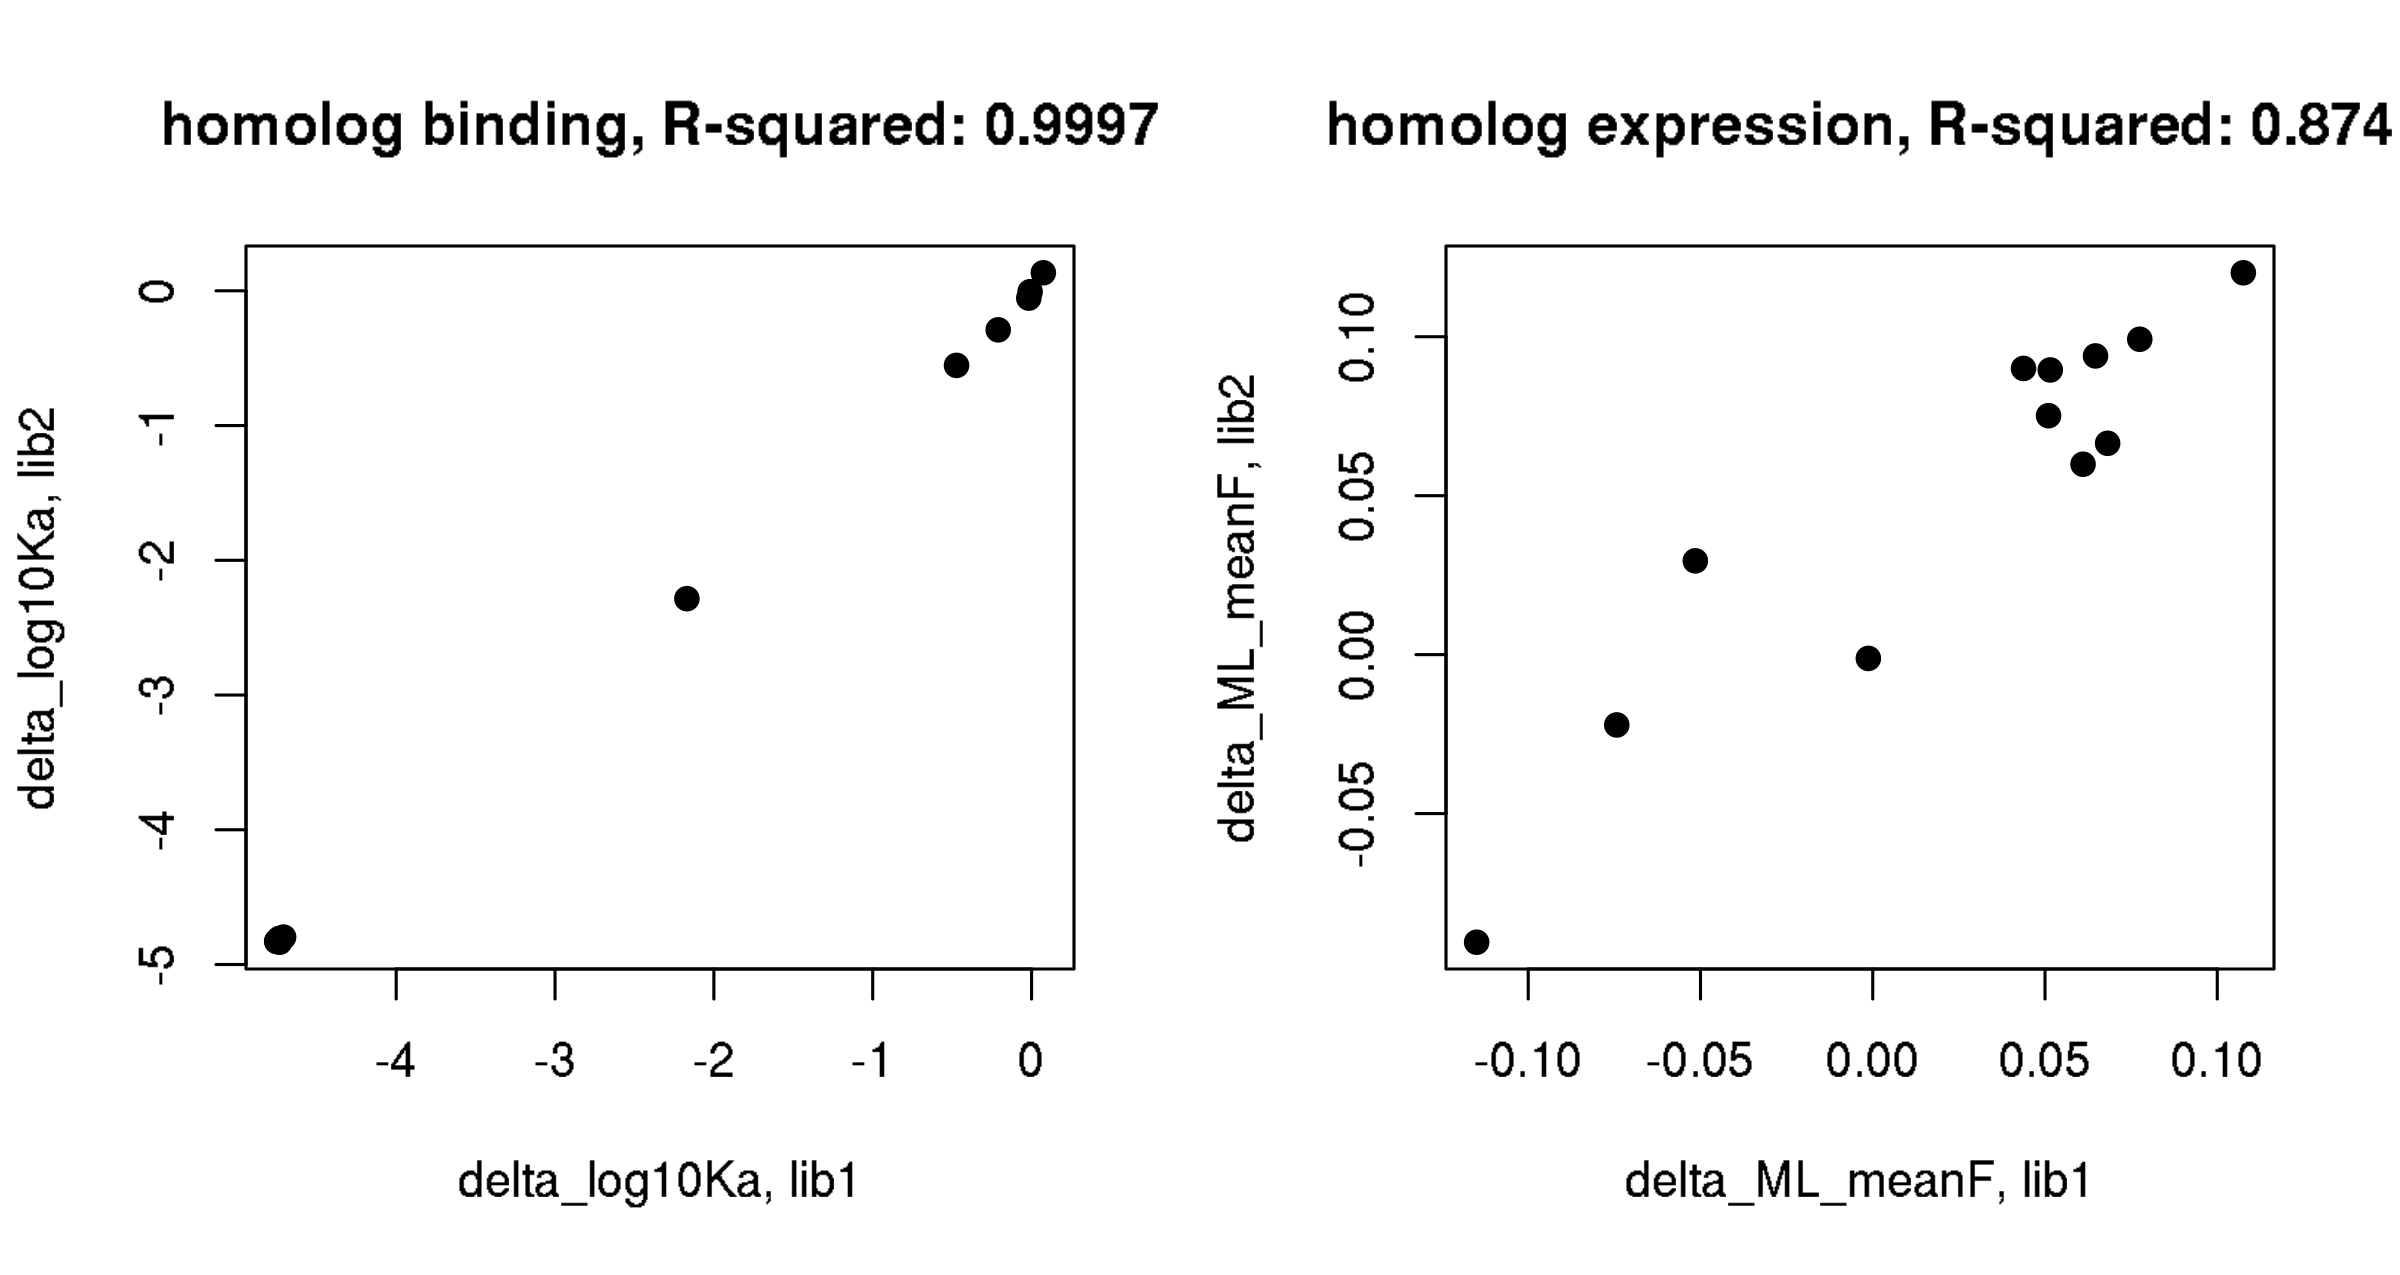
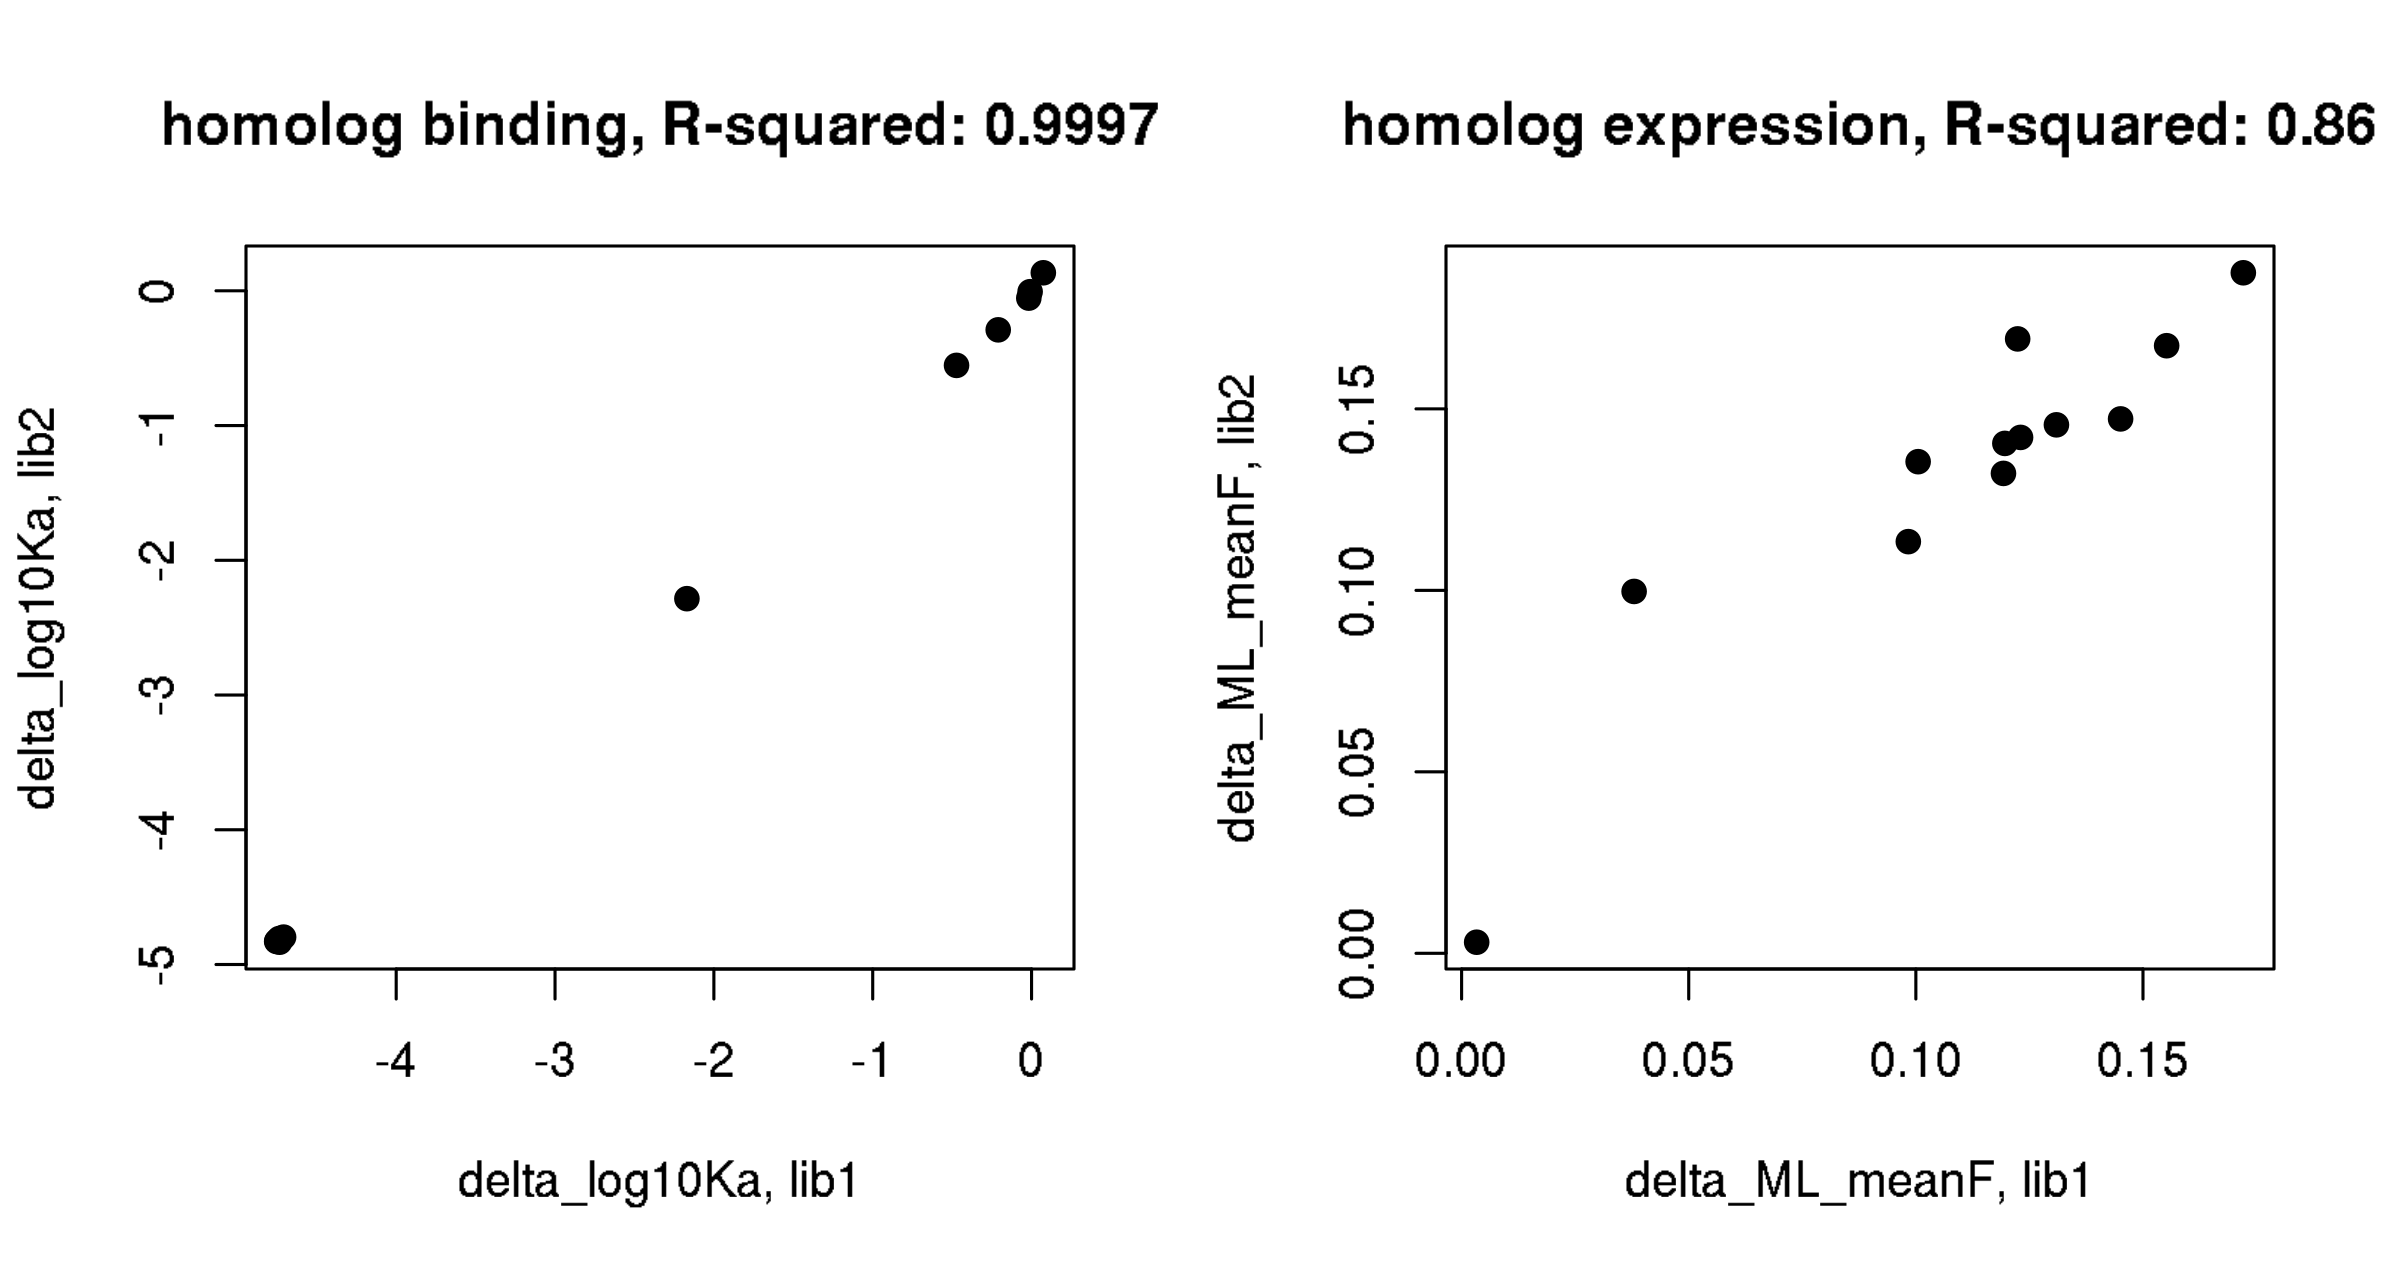
Calculate homolog expression as median

diff --git a/results/summary/single_mut_effects.md b/results/summary/single_mut_effects.md
@@ -783,11 +783,11 @@ for(i in 1:nrow(homologs)){
   homologs$bind_avg[i] <- mean(homologs$bind_lib1[i], homologs$bind_lib2[i])
   homologs$bind_SE[i] <- sqrt(homologs$bind_lib1_SE[i]^2 + homologs$bind_lib2_SE[i]^2)/2
   expr_lib1 <- bc_homologs_expr[library=="lib1" & target==as.character(homologs$homolog[i]),delta_ML_meanF]
-  homologs$expr_lib1[i] <- mean(expr_lib1,na.rm=T)
-  homologs$expr_lib1_SE[i] <- sd(expr_lib1,na.rm=T)/sqrt(sum(!is.na(expr_lib1)))
+  homologs$expr_lib1[i] <- median(expr_lib1,na.rm=T)
+  homologs$expr_lib1_SE[i] <- 1.2533*sd(expr_lib1,na.rm=T)/sqrt(sum(!is.na(expr_lib1))) #assumes normal distribution which is not quite correct, so revisit this if using SE for any hard-core statistics
   expr_lib2 <- bc_homologs_expr[library=="lib2" & target==as.character(homologs$homolog[i]),delta_ML_meanF]
-  homologs$expr_lib2[i] <- mean(expr_lib2,na.rm=T)
-  homologs$expr_lib2_SE[i] <- sd(expr_lib2,na.rm=T)/sqrt(sum(!is.na(expr_lib2)))
+  homologs$expr_lib2[i] <- median(expr_lib2,na.rm=T)
+  homologs$expr_lib2_SE[i] <- 1.2533*sd(expr_lib2,na.rm=T)/sqrt(sum(!is.na(expr_lib2)))
   homologs$expr_avg[i] <- mean(homologs$expr_lib1[i], homologs$expr_lib2[i])
   homologs$expr_SE[i] <- sqrt(homologs$expr_lib1_SE[i]^2 + homologs$expr_lib2_SE[i]^2)/2
 }
